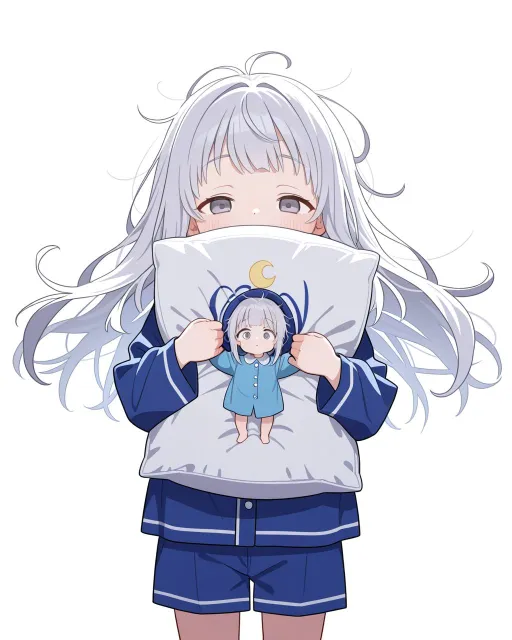
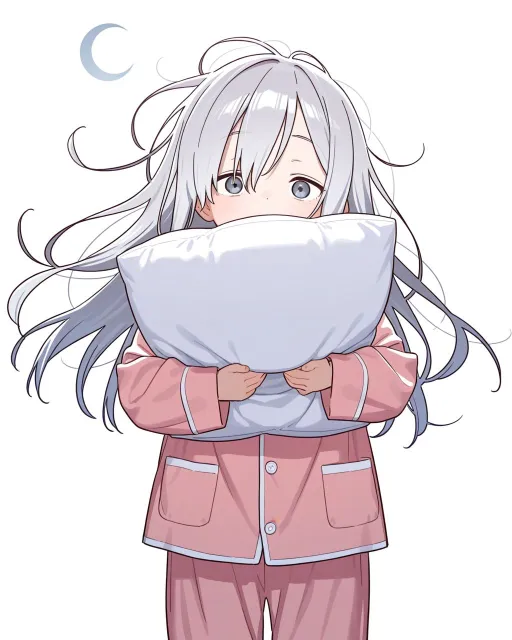
絵：yura（逆夢の使徒ベルファス）を作り直す（redo: multi・版 2）
抱えた枕に子どもの絵が描かれていた（2 人に見える）ので --redo --new-seed で作り直した。無地の枕で一人だけ。
版 2（ikezawa shin 入り）になったので、差分 7 枚も作り直した。

Claude-Session: https://claude.ai/code/session_01UckR9EU3ASSzBWCrgYGCo7

diff --git a/docs/art/portraits.md b/docs/art/portraits.md
@@ -150,7 +150,7 @@
 | `assets/portraits/berna.webp` | 疫医ベルナ | 見た目（固定）：1girl, white hair, medium hair, beak mask, mask covering eyes, black hooded coat, gloves<br>plague doctor, medicine bottles | セグリトスの眷属の医者。嘴の仮面で顔は見せない。声は若い女 |
 | `assets/portraits/azlag.webp` | 剣翼の使徒ヴァルグレア | 型：`ojisan`<br>見た目（固定）：1boy, male focus, adult, man, 40 years old, huge man, blonde hair, short hair, spiky hair, golden eyes, glowing eyes, slit pupils, stubble, feathers in hair, charcoal grey coat, white shirt, one black bird wing made of blades<br>crossed arms<br>表情：frown<br>喜（`_joy`）：grin, proud<br>怒（`_anger`）：angry, glaring, clenched teeth<br>哀（`_sorrow`）：sad, frown, looking away<br>楽（`_fun`）：laughing, open mouth<br>慌て（`_panic`）：flustered, sweatdrop, frown, looking away<br>真剣（`_serious`）：serious, glaring, closed mouth<br>得意げ（`_smug`）：smug, proud, closed eyes | 刃を撃ち出す黒い鳥の使徒（使徒リスト 62）の人の姿。片翼の大男。転んだのを無かったことにする |
 | `assets/portraits/chezar.webp` | 百面の使徒ディエラン（北の賢人） | 型：`elder`<br>見た目（固定）：1boy, male focus, adult, old man, 72 years old, white hair, short hair, slicked back hair, grey eyes, monocle, mustache, mask-like face, porcelain skin, cracked skin, noble military coat, many masks hanging at belt, eyes on clothing<br>holding a chess piece<br>表情：expressionless<br>喜（`_joy`）：smile, closed eyes<br>怒（`_anger`）：glaring, frown<br>哀（`_sorrow`）：sad, looking down<br>楽（`_fun`）：laughing, open mouth<br>ほんの少し笑う（`_faint_smile`）：faint smile, closed mouth<br>冷たい目（`_cold`）：cold eyes, expressionless<br>悪い笑み（`_wicked`）：eerie smile, mask-like smile | 仮面をいくつも持つ使徒（使徒リスト 23）。今は宮廷の老将の面で、宰相の客分の軍師。駒に話しかける |
-| `assets/portraits/yura.webp` | 逆夢の使徒ベルファス | **作り直す**（`redo: multi`：2人以上写っている）<br>見た目（固定）：toddler, androgynous, 3 years old, silver hair, long hair, messy hair, floating hair, grey eyes, pajamas, faint glow<br>holding a plain pillow, floating upside down, crescent moon<br>表情：eyes closed, sleeping<br>喜（`_joy`）：smile, eyes closed, sleeping<br>怒（`_anger`）：pout, frown, eyes closed, sleeping<br>哀（`_sorrow`）：teary eyes, frown, eyes closed, sleeping<br>楽（`_fun`）：open mouth smile, eyes closed, sleeping<br>眠い（`_sleepy`）：sleepy, drowsy, half-closed eyes, yawning<br>驚き（`_surprise`）：eyes open, wide-eyed, blank stare<br>ほんの少し笑う（`_faint_smile`）：faint smile, eyes closed, sleeping | 眠り続ける幼子の姿の使徒（使徒リスト 2）。いつも目を閉じて眠っている。逆さの夢に出る。子どもらしく |
+| `assets/portraits/yura.webp` | 逆夢の使徒ベルファス | 絵の版：2<br>見た目（固定）：toddler, androgynous, 3 years old, silver hair, long hair, messy hair, floating hair, grey eyes, pajamas, faint glow<br>holding a plain pillow, floating upside down, crescent moon<br>表情：eyes closed, sleeping<br>喜（`_joy`）：smile, eyes closed, sleeping<br>怒（`_anger`）：pout, frown, eyes closed, sleeping<br>哀（`_sorrow`）：teary eyes, frown, eyes closed, sleeping<br>楽（`_fun`）：open mouth smile, eyes closed, sleeping<br>眠い（`_sleepy`）：sleepy, drowsy, half-closed eyes, yawning<br>驚き（`_surprise`）：eyes open, wide-eyed, blank stare<br>ほんの少し笑う（`_faint_smile`）：faint smile, eyes closed, sleeping | 眠り続ける幼子の姿の使徒（使徒リスト 2）。いつも目を閉じて眠っている。逆さの夢に出る。子どもらしく |
 | `assets/portraits/walker.webp` | 灰色の外套の旅人（三度目に会うとノエと名乗る） | 型：`ojisan`<br>見た目（固定）：1boy, male focus, adult, man, ageless, fair skin, dark brown hair, medium hair, messy hair, grey eyes, half-closed eyes, stubble, old grey cloak<br>gentle smile, traveler | 年の分からない旅人。何でも珍しそうに喜ぶ |
 | `assets/portraits/captain_east.webp` | コルサーノ（東へ出る船の船長） | 型：`ojisan`<br>見た目（固定）：1boy, male focus, adult, old man, 52 years old, stocky, fair skin, white hair, short hair, white beard, black eyes, eyepatch, captain hat, navy coat<br>sea captain, hand on belt, smoking pipe<br>表情：slight smile | 東の果てへ出る片目の船長 |
 | `assets/portraits/hans.webp` | 宿の主人ハンス | 型：`ojisan`<br>見た目（固定）：1boy, male focus, adult, middle-aged man, 58 years old, muscular, bald, black eyes, thick eyebrows, stubble, black shirt, apron<br>innkeeper, holding a ledger, quill pen behind ear<br>表情：kind smile, blush | 宿の主人。宿帳の年齢の欄で筆を止める |
